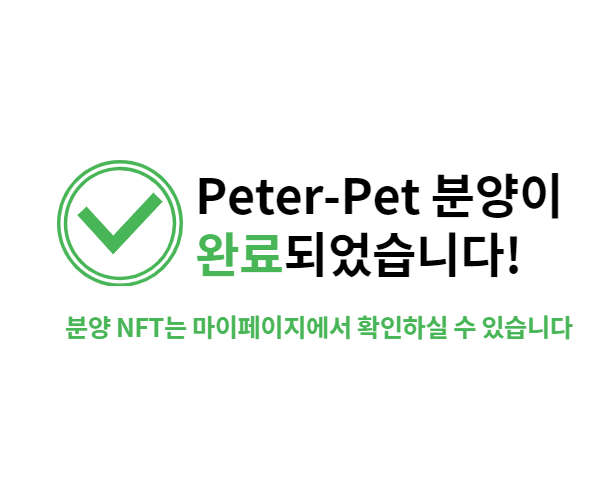
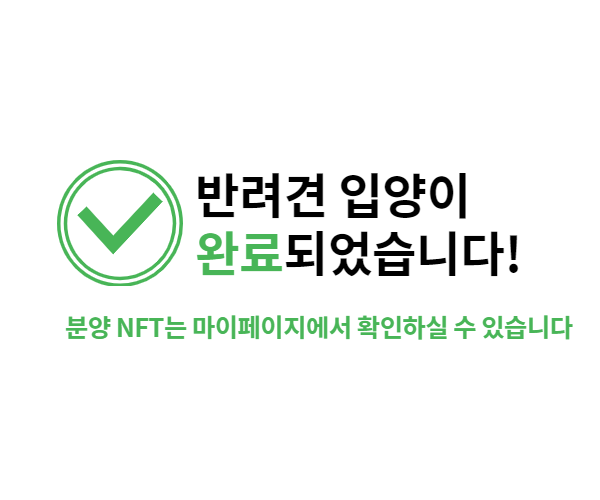
buyComplete.vue css changed

diff --git a/frontend/src/views/BuyComplete.vue b/frontend/src/views/BuyComplete.vue
@@ -6,7 +6,7 @@
         <div class="my-box1"></div>
         <div class="container">
         <div class="md-layout">
-          <div class="content">
+          <div class="content-buy">
             <!-- <h4>두남이의 Peter-Pet 등록이 완료되었습니다!</h4> -->
             <img
               id="check"
@@ -14,11 +14,11 @@
               src="@/assets/img/nft/ccomplete.png"
             />
           </div>
-          <div class="hat">
+          <div class="hat1">
             <img :src="img1" alt="brand" />
           </div>
 
-          <div class="my-box2" style="color: black;">
+          <div class="box-complete" style="color: black;">
             <label><b>이름 : </b></label>
             <label>{{ peterpet.name }}</label>
             <br />
@@ -27,22 +27,19 @@
             <label>{{ $route.query.result.did }}</label>
             <br />
             <br />
-            <label><b>분양 영수증 : </b></label>
-            <div class="recipt"
-                 style="z-index:1 ;">
-            <md-button src="success"> receipt</md-button>
-            </div>
+            <label><b>분양 TX Hash: </b></label>
+           
             <h7>{{$route.query.result.transactionHash}}</h7>
             <br />
             <br />
           </div>
             
 
-          <div class="query-line"></div>
-          <div class="query-1">
+          <div class="query-line-1"></div>
+          <div class="query-b1">
             <label><b>{{ peterpet.name }}를 잘 부탁해요!</b></label>
           </div>
-          <div class="complete-img">
+          <div class="complete-img1">
             <img
               id="dog"
               :src="peterpet.imgLink"
@@ -50,18 +47,9 @@
               class="img-raised rounded-circle img-fluid"
             />
           </div>
-          <div class="my-box3"></div>
+          <div class="my-box-nc"></div>
           <div class="my-box4"></div>
-          <div class="mypage-c">
-            <md-button id="mypage" href="#/mypage" class="md-success">
-              <b>마이 페이지</b></md-button
-            >
-          </div>
-          <div class="mainpage-c">
-            <md-button id="mainpage" href="#/" class="md-default">
-              <b>메인 페이지</b></md-button
-            >
-          </div>
+          
         </div>
         </div>
       </div>
@@ -120,18 +108,18 @@ export default {
 
 <style lang="css">
 
-.complete-img {
+.complete-img1 {
   z-index: 2;
   position: absolute;
   width: 180px;
   height: 180px;
   overflow: hidden;
   margin-top: 285px;
-  margin-left: 1090px;
+  margin-left: 1000px;
   left: -850px;
   border-radius: 50px;
 }
-.complete-img img {
+.complete-img1 img {
   position: absolute;
   top: 0;
   left: 0;
@@ -156,20 +144,19 @@ export default {
   background-color: rgba(235, 235, 235, 0.897);
 }
 
-.content {
-  font-family: Georgia, "Times New Roman", Times, serif;
+.content-buy {
   position: relative;
   display: inline-block;
-  left: 150px;
+  left: 170px;
   top: -200px;
   margin: auto;
 }
 .check {
   margin-left: 100px;
 }
-.hat {
+.hat1 {
   z-index: 3;
-  left: 180px;
+  left: 80px;
   top: 340px;
   z-index: 1;
   position: absolute;
@@ -177,41 +164,41 @@ export default {
   height: 300px;
   margin: auto;
 }
-.my-box2 {
+.box-complete {
   position: relative;
   display: inline-block;
-  left: -320px;
+  left: -350px;
   top: 120px;
-  width: 30%;
+  width: 40%;
   height: 0.3%;
   font-size: 19px;
   color:rgb(41, 41, 43);
   margin: auto;
 }
-.query-1 {
+.query-b1 {
   position: relative;
   top: 20px;
-  left: -330px;
+  left: -450px;
   font-size: 20px;
   color:rgb(23, 23, 26);
 
 }
-.query-line {
+.query-line-1 {
   position: relative;
-  width: 750px;
+  width: 850px;
   height: 2px;
   top: 0px;
-  left: 140px;
+  left: 50px;
   background-color: rgba(235, 235, 235, 0.897);
 }
-.my-box3 {
+.my-box-nc {
   position: relative;
   display: inline-block;
-  width: 870px;
+  width: 9000px;
   height: 380px;
   border-radius: 3em;
   top: -335px;
-  left: 0px;
+  left: -50px;
   border: 2px solid rgba(221, 219, 219, 0.897);
   margin: auto;
 }
@@ -225,24 +212,6 @@ export default {
 .check {
   margin-left: 40%;
   margin-top: 20%;
-}
-.my-box4 {
-  position: relative;
-  display: inline-block;
-  width: 30%;
-  height: 0.3%;
-  left: 200px;
-  top: 400px;
-  background-color: rgba(12, 255, 4, 0.897);
-}
-.my-box5 {
-  position: relative;
-  display: inline-block;
-  width: 50%;
-  height: 0.2%;
-  left: 25%;
-  top: 38%;
-  background-color: rgba(248, 129, 17, 0.788);
 }
 .mypage-c {
   z-index: 2;

diff --git a/frontend/src/views/PetMall.vue b/frontend/src/views/PetMall.vue
@@ -5,7 +5,7 @@
     <div class="main main-raised">
       <div class="section">
         <div class="md-layout">
-          <h2 style="margin-left: 700px"><b>Peter-Pet 분양</b></h2>
+          <h2 style="margin-left: 700px"><b>반려견 &nbsp; 분양</b></h2>
           <hr width="1570px;" />
           <br /><br /><br />
           <div class="market-tab">
